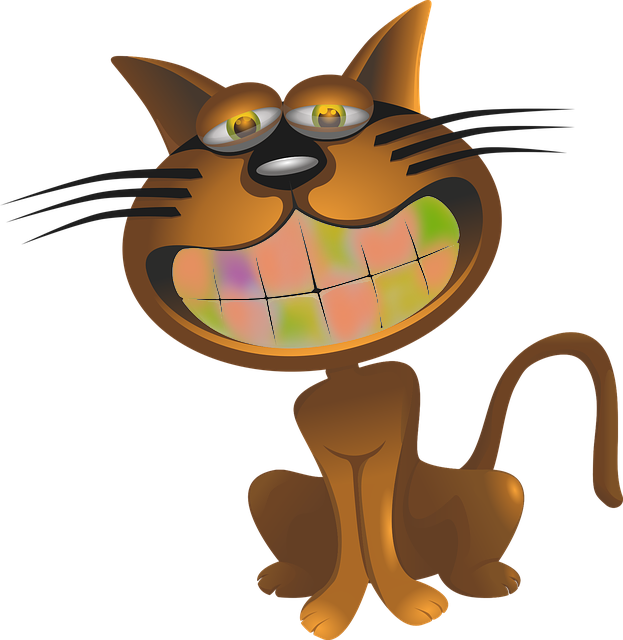
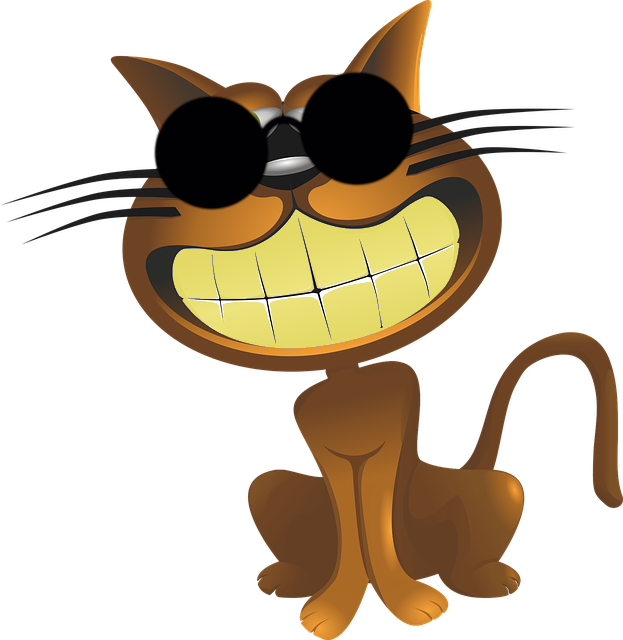
bad cat added

Changed region(s): [[0.2745, 0.2812, 0.7624, 0.5625], [0.244, 0.0938, 0.6709, 0.3438]]

diff --git a/Whacamole/script.js b/Whacamole/script.js
@@ -14,30 +14,31 @@ let x = setInterval(function () {
     } else {
         document.body.classList.remove('timeRunningOut');
     }
-    time.innerHTML = distance ;
-        if (distance < 0) {
-            
-           document.body.classList.add('gameOver');
-        
-            clearInterval(x);
-            sesame();
-            time.innerHTML = "Game over";
+    time.innerHTML = distance;
+    if (distance < 0) {
 
-        }
-        if (distance >= 65){
+        document.body.classList.add('gameOver');
+
+        clearInterval(x);
+        sesame();
+        time.innerHTML = "Game over";
+
+    }
+    if (distance >= 65) {
         level += 1;
-        }
+    }
 }, 1000);
 
 function addMoreTime() {
     distance += 2;
 }
+
 let randomTime = function (min, max) {
     return (Math.random() * (max - min) + min);
 }
 
+
 const catShake = function (event) {
-    console.log('shake') 
     addMoreTime();
     event.target.children[0].classList.add('shake');
     event.target.children[0].classList.remove('up');
@@ -45,20 +46,35 @@ const catShake = function (event) {
 }
 
 const randomCat = function () {
+    
     const cats = Array.from(document.querySelectorAll('.cat'));
+    
+    
 
     let catIndex = parseInt(Math.random() * (cats.length));
-    cats.forEach(element => element.classList.remove('up', 'shake'));
+    
+    
+    cats.forEach(element => element.classList.remove('up', 'shake','badCat'));
 
     let cat = cats[catIndex];
-    console.log(cat);
 
-    // console.log(catIndex);
+    let random_boolean = Math.random() >= 0.5;
+
+    if (random_boolean === true) {
+        cat.classList.add('badCat');
+        
+    }
+    
     cat.classList.add('up');
+   // cat.classList.add('badCat');
     cat.parentElement.addEventListener('mouseup', catShake)
 
+}
 
-};
+let showBadCat = function (event) {
+   // event.target.classList.remove('cat');
+    event.target.classList.add('badCat');
+}
 
 setInterval(randomCat, randomTime(1000, 3000));
 
@@ -69,26 +85,28 @@ let leftdoor = document.querySelector(".leftdoor");
 let rightdoor = document.querySelector(".rightdoor");
 let playbutton = document.querySelector(".playbutton");
 let underbutton = document.querySelector(".underbutton");
-let header =  document.querySelector(".header");
+let header = document.querySelector(".header");
 let isOpen = false;
 let start = document.querySelector(".wrapper")
 
 function sesame() {
-  if (isOpen === false) {
-    leftdoor.style.left = -50 + "vw";
-    rightdoor.style.left = 100 + "vw";
-    playbutton.style.left = 93.8 + "vw";
-    underbutton.style.left = -6.5 + "vw";
-    isOpen = true;
-    header.style.opacity = 2; }
-  else {
-    leftdoor.style.left = 0 + "vw";
-    rightdoor.style.left = 50 + "vw";
-    playbutton.style.left = 43.5 + "vw";
-    underbutton.style.left = 43.5 + "vw";
-    isOpen = false;
-    header.style.opacity = 0;
-  } }
+    if (isOpen === false) {
+        leftdoor.style.left = -50 + "vw";
+        rightdoor.style.left = 100 + "vw";
+        playbutton.style.left = 93.8 + "vw";
+        underbutton.style.left = -6.5 + "vw";
+        isOpen = true;
+        header.style.opacity = 2;
+    }
+    else {
+        leftdoor.style.left = 0 + "vw";
+        rightdoor.style.left = 50 + "vw";
+        playbutton.style.left = 43.5 + "vw";
+        underbutton.style.left = 43.5 + "vw";
+        isOpen = false;
+        header.style.opacity = 0;
+    }
+}
 
 
 

diff --git a/Whacamole/style.css b/Whacamole/style.css
@@ -120,17 +120,8 @@ body {
     bottom: -27px;
     transition: bottom 1s ease-in-out;
 }
-.badcat {
-    background: url(badcat.png) 91px 100% no-repeat;
-    position: absolute;
-    width: 33vw;
-    height: 13vw;
-    background-size: contain;
-    z-index: -3;
-    /*transition: ease-in-out 0.2s; */
-    overflow: hidden;
-    bottom: -27px;
-    transition: bottom 1s ease-in-out;
+.cat.badCat {
+    background-image: url(badcat.png);
 }
 
 .shake {
